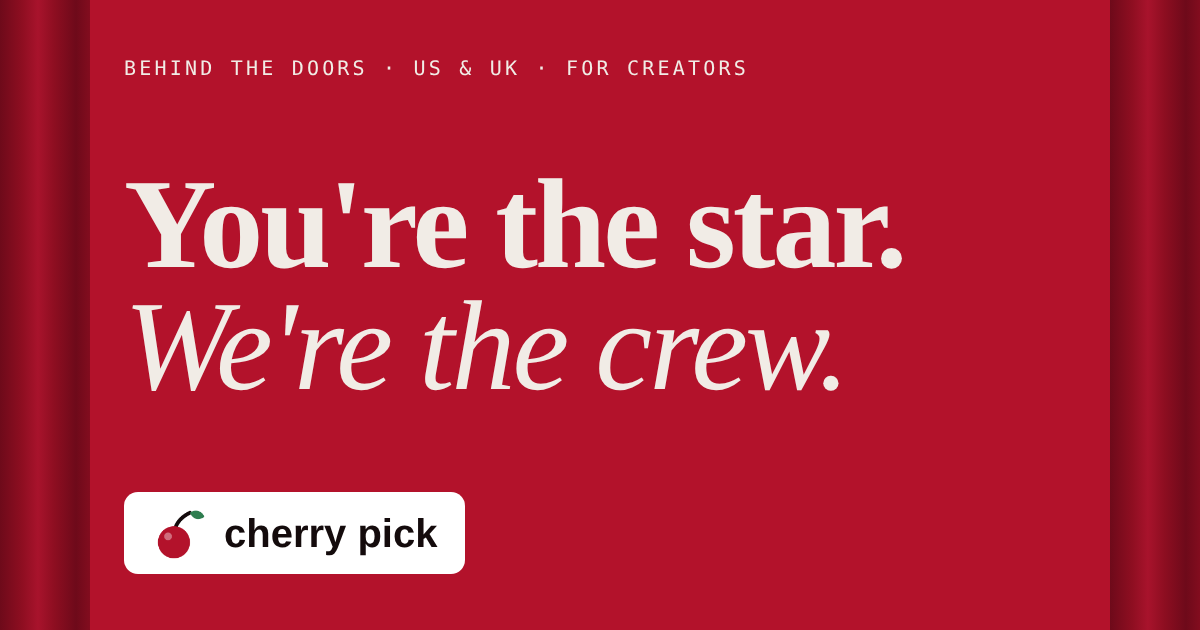
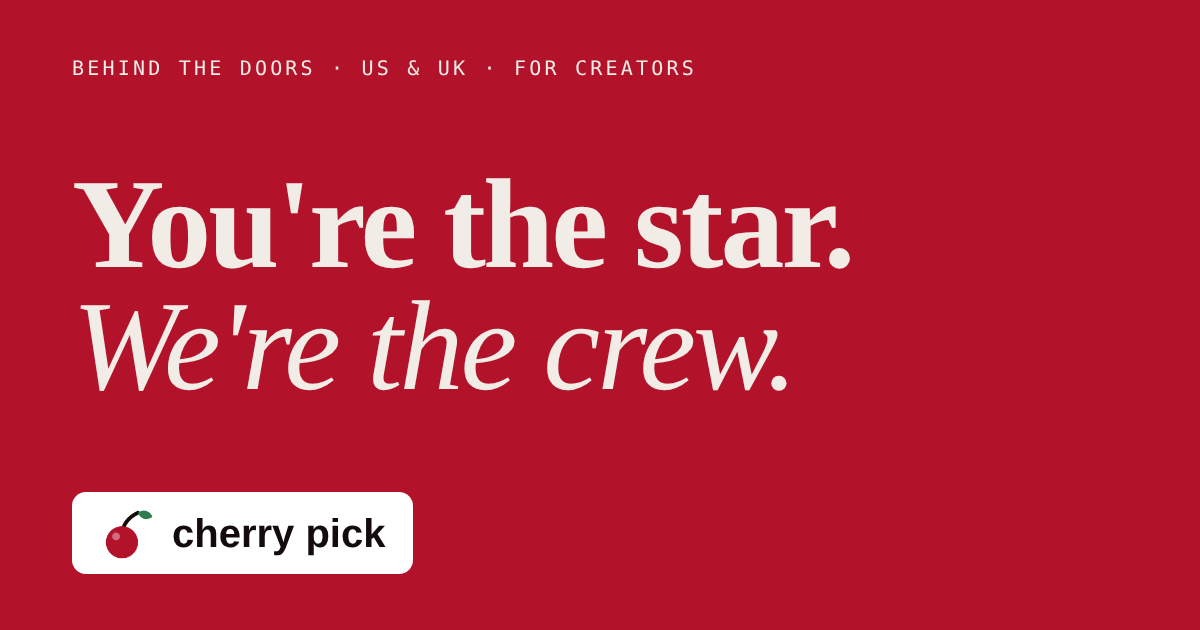
Add files via upload

Changed region(s): [[0.0, 0.0, 0.7708, 1.0], [0.925, 0.0, 1.0, 1.0]]

diff --git a/index.html b/index.html
@@ -67,31 +67,16 @@ header.nav { background: #fff; color: var(--ink); border-bottom: 1px solid var(-
 .ghost { opacity: .85; }
 
 
-/* curtains */
-:root { --oxb:#6E0A1A; --oxb2:#8E0E21; --oxb3:#A8132C; }
-.curtain { position:absolute; top:0; bottom:0; width:50%; z-index:3; pointer-events:none;
-  background: linear-gradient(180deg, rgba(0,0,0,.28), rgba(0,0,0,0) 22%, rgba(0,0,0,0) 78%, rgba(0,0,0,.32)),
-              repeating-linear-gradient(90deg, var(--oxb) 0, var(--oxb2) 22px, var(--oxb3) 38px, var(--oxb2) 54px, var(--oxb) 76px); }
-.curtain.l { left:0; transform-origin:left center; }
-.curtain.r { right:0; transform-origin:right center; }
 .hero { position:relative; overflow:hidden; }
-.hero .curtain { animation: part 2s cubic-bezier(.75,0,.2,1) .35s both; }
-@keyframes part { from { transform: scaleX(1); } to { transform: scaleX(.1); } }
 .hero .wrap { position:relative; z-index:2; }
-.hero h1, .hero .lead, .hero .cta, .hero .tag { animation: rise .9s cubic-bezier(.2,.7,.2,1) 1.5s both; }
-.hero .lead { animation-delay: 1.7s; } .hero .cta { animation-delay: 1.85s; }
+.hero h1, .hero .lead, .hero .cta, .hero .tag { animation: rise .9s cubic-bezier(.2,.7,.2,1) .15s both; }
+.hero .lead { animation-delay: .35s; } .hero .cta { animation-delay: .5s; }
 @keyframes rise { from { opacity:0; transform: translateY(18px); } to { opacity:1; transform:none; } }
-.valance { position:absolute; left:0; right:0; top:0; height:30px; z-index:4; pointer-events:none;
-  background: radial-gradient(circle at 26px -4px, var(--oxb) 26px, transparent 27px) 0 0/52px 30px repeat-x; filter: drop-shadow(0 4px 4px rgba(0,0,0,.25)); }
 .promote { position:relative; overflow:hidden; }
 .promote .wrap { position:relative; z-index:2; }
-.promote .curtain { transform: scaleX(.1); transition: transform 1.6s cubic-bezier(.75,0,.2,1); }
-.promote.pre .curtain { transform: scaleX(.62); }
 @media (prefers-reduced-motion: reduce) {
-  .hero .curtain { animation:none; transform:scaleX(.1); }
-  .hero h1, .hero .lead, .hero .cta, .hero .tag { animation:none; }
-  .promote .curtain { transition:none; }
-}
+    .hero h1, .hero .lead, .hero .cta, .hero .tag { animation:none; }
+  }
 
 /* sections */
 section { padding: 96px 0; }
@@ -191,7 +176,7 @@ body::after { content:""; position:fixed; inset:0; pointer-events:none; z-index:
 @keyframes tick { to { transform: translateX(-50%); } }
 .ticker:hover .track { animation-play-state: paused; }
 .reel { position:absolute; right:24px; top:44px; z-index:2; text-align:right; color:rgba(241,236,230,.75); line-height:1.7; animation: rise .9s ease 2.1s both; }
-.seal { position:absolute; right:max(24px, calc((100vw - 1120px)/2 + 24px)); bottom:72px; width:150px; height:150px; z-index:2; animation: rise .9s ease 2.2s both; }
+.seal { position:absolute; right:max(24px, calc((100vw - 1120px)/2 + 24px)); bottom:72px; width:150px; height:150px; z-index:2; animation: rise .9s ease .7s both; }
 .seal svg { width:100%; height:100%; animation: spin 38s linear infinite; }
 .seal .core { position:absolute; inset:0; display:grid; place-items:center; }
 .seal .core svg { width:46px; height:46px; animation:none; }
@@ -276,7 +261,6 @@ footer .row2 { display:flex; flex-wrap:wrap; justify-content:space-between; gap:
 
 <main id="top">
 <div class="hero">
-  <div class="curtain l"></div><div class="curtain r"></div><div class="valance"></div>
   <div class="wrap">
     <div class="tag mono"><span>Behind the doors</span><span>US &amp; UK</span><span>For creators</span></div>
     <h1>You're the star.<em>We're the crew.</em></h1>
@@ -361,7 +345,6 @@ footer .row2 { display:flex; flex-wrap:wrap; justify-content:space-between; gap:
 </section>
 
 <div class="promote" id="promote">
-  <div class="curtain l"></div><div class="curtain r"></div>
   <div class="wrap">
     <p class="s">All you have to do is what you always do. This time, for yourself.</p>
     <div class="word">Promote.</div>
@@ -485,15 +468,7 @@ var FORM_TO = "semihseloni@gmail.com", FORM_CC = "ariel@nadavot.com";
       .then(function () { btn.disabled = false; });
   });
 })();
-(function () {
-  var pr = document.getElementById("promote");
-  if (!pr || !("IntersectionObserver" in window) || window.matchMedia("(prefers-reduced-motion: reduce)").matches) return;
-  pr.classList.add("pre");
-  var io = new IntersectionObserver(function (en) {
-    en.forEach(function (x) { if (x.isIntersecting) { pr.classList.remove("pre"); io.disconnect(); } });
-  }, { threshold: 0.45 });
-  io.observe(pr);
-})();
+
 
 (function(){
   var p=document.getElementById("prog");
